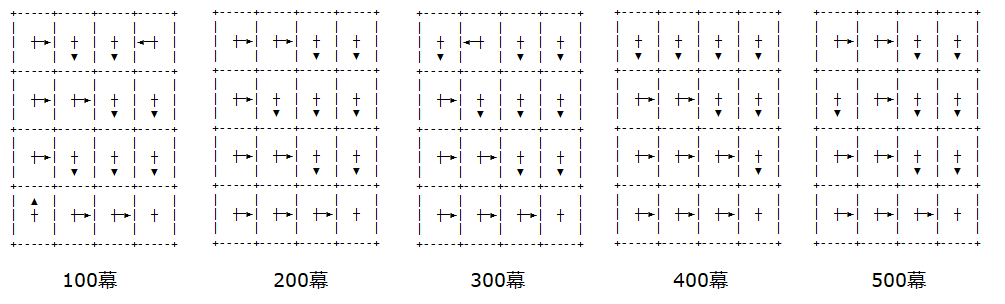
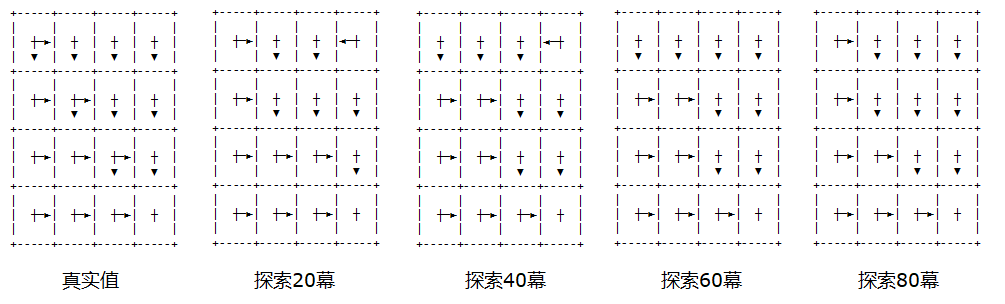
update

diff --git a/基础教程/A7-强化学习/110-二十一点问题 - 蒙特卡洛控制/src/MC_113_GridWorld_ES.py b/基础教程/A7-强化学习/110-二十一点问题 - 蒙特卡洛控制/src/MC_113_GridWorld_ES.py
@@ -17,7 +17,7 @@ Actions = [LEFT, DOWN, RIGHT, UP]
 # 初始策略
 Policy = [0.25, 0.25, 0.25, 0.25]
 # 转移概率: [SlipLeft, MoveFront, SlipRight, SlipBack]
-Transition = [0.0, 1.0, 0.0, 0.0]
+Transition = [0.1, 0.8, 0.1, 0.0]
 # 每走一步的奖励值，可以是0或者-1
 StepReward = 0
 # 特殊奖励 from s->s' then get r, 其中 s,s' 为状态序号，不是坐标位置
@@ -98,30 +98,83 @@ if __name__=="__main__":
 
     env = model.GridWorld(
         GridWidth, GridHeight, StartStates, EndStates,  # 关于状态的参数
-        Actions, Policy, Transition,                     # 关于动作的参数
+        Actions, Policy, Transition,                    # 关于动作的参数
         StepReward, SpecialReward,                      # 关于奖励的参数
         SpecialMove, Blocks)                            # 关于移动的限制
     #model.print_P(env.P_S_R)
     gamma = 0.9
-    max_iteration = 2000
-    explorations = [100,200,300,400,500]
+    max_iteration = 500
 
+    helper.print_seperator_line(helper.SeperatorLines.long, "精确解")
 
-    V,Q = algo.calculate_VQ_star(env, gamma, max_iteration)
-    print(np.round(V,1).reshape(4,4))
-    print(np.around(Q, 1))
-    drawQ.draw(Q, (4,4))
+    V_real,Q_real = algo.calculate_VQ_star(env, gamma, max_iteration)
+    helper.print_seperator_line(helper.SeperatorLines.short, "V 函数值")
+    print(np.round(V_real,1).reshape(4,4))
+    helper.print_seperator_line(helper.SeperatorLines.short, "Q 函数值")
+    print(np.around(Q_real, 1))
+    helper.print_seperator_line(helper.SeperatorLines.short, "策略")
+    drawQ.draw(Q_real, (4,4))
 
-    exit(0)
+    ####################################
 
+    helper.print_seperator_line(helper.SeperatorLines.long, "试验探索次数")
+    explorations = [20,40,60,80]
     for exploration in explorations:
+        helper.print_seperator_line(helper.SeperatorLines.middle, "探索次数="+str(exploration))
         policy = helper.create_policy(env.nS, env.nA, (0.25, 0.25, 0.25, 0.25))
-        helper.print_seperator_line(helper.SeperatorLines.long, "探索次数="+str(exploration))
         Q = MC_EveryVisit_Q_Policy_test(env, max_iteration, gamma, policy, exploration)
+        V = helper.calculat_V_from_Q(Q, policy)
+        #helper.print_seperator_line(helper.SeperatorLines.short, "V 函数")
+        #print(np.round(V,1).reshape(4,4))
+        #helper.print_seperator_line(helper.SeperatorLines.short, "Q 函数")
+        #print(np.around(Q, 1))
+        #helper.print_seperator_line(helper.SeperatorLines.short, "策略")
+        #drawQ.draw(Q, (4,4))
+        #helper.print_seperator_line(helper.SeperatorLines.short, "策略概率值")
+        #print(policy)
+
+        Qs = []
+        for i in range(10):
+            q = MC_EveryVisit_Q_Policy_test(env, max_iteration, gamma, policy, max_iteration)
+            Qs.append(q)
+        Q = np.array(Qs).mean(axis=0) 
+        V = helper.calculat_V_from_Q(Q, policy) 
+        helper.print_seperator_line(helper.SeperatorLines.short, "V 函数")
+        print(np.round(V,1).reshape(4,4))
+        helper.print_seperator_line(helper.SeperatorLines.short, "Q 函数")
+        print(np.around(Q, 1))
+        helper.print_seperator_line(helper.SeperatorLines.short, "策略")
+        drawQ.draw(Q, (4,4))
+
+        #helper.print_seperator_line(helper.SeperatorLines.short, "RMSE误差")
+        #print("状态价值函数误差=", helper.RMSE(V_real, V))
+        #print("动作价值函数误差=", helper.RMSE(Q_real, Q))
+
+    ####################################################
+    """
+    helper.print_seperator_line(helper.SeperatorLines.long, "试验采样次数与误差的关系")
+    exploration = 100
+    iterations = [200,500,1000,2000]
+    for max_iteration in iterations:
+        policy = helper.create_policy(env.nS, env.nA, (0.25, 0.25, 0.25, 0.25))
+        helper.print_seperator_line(helper.SeperatorLines.middle, "采样次数="+str(max_iteration))
+        Q = MC_EveryVisit_Q_Policy_test(env, max_iteration, gamma, policy, exploration)
+        V = helper.calculat_V_from_Q(Q, policy)
+
+        Qs = []
+        for i in range(10):
+            q = MC_EveryVisit_Q_Policy_test(env, max_iteration, gamma, policy, max_iteration)
+            Qs.append(q)
+        Q = np.array(Qs).mean(axis=0) 
         V = helper.calculat_V_from_Q(Q, policy)
         helper.print_seperator_line(helper.SeperatorLines.short, "V 函数")
         print(np.round(V,1).reshape(4,4))
         helper.print_seperator_line(helper.SeperatorLines.short, "Q 函数")
         print(np.around(Q, 1))
+        helper.print_seperator_line(helper.SeperatorLines.short, "策略")
         drawQ.draw(Q, (4,4))
-        print(policy)
+
+        helper.print_seperator_line(helper.SeperatorLines.short, "RMSE误差")
+        print("状态价值函数误差=", helper.RMSE(V_real, V))
+        print("动作价值函数误差=", helper.RMSE(Q_real, Q))
+    """

diff --git a/基础教程/A7-强化学习/110-二十一点问题 - 蒙特卡洛控制/src/common/GridWorld_Model.py b/基础教程/A7-强化学习/110-二十一点问题 - 蒙特卡洛控制/src/common/GridWorld_Model.py
@@ -104,9 +104,10 @@ class GridWorld(object):
             return transitions[0][1], transitions[0][2], transitions[0][3], transitions[0][0]
         else:
             self.p = [transitions[i][0] for i in range(num)]
-            item = np.random.choice(self.nA, p=self.p)
-            self.curr_state = item[0][1]
-            return item[1], item[2], item[3], item[0]
+            idx = np.random.choice(num, p=self.p)
+            item = transitions[idx]
+            self.curr_state = item[1]   # s
+            return item[1], item[2], item[3], item[0]   # s, r, done, p
         
 action_names = ['LEFT', 'UP', 'RIGHT', 'DOWN']
 

diff --git a/基础教程/A7-强化学习/110-二十一点问题 - 蒙特卡洛控制/src/Algorithm/Algo_OptimalValueFunction.py b/基础教程/A7-强化学习/110-二十一点问题 - 蒙特卡洛控制/src/Algorithm/Algo_OptimalValueFunction.py
@@ -7,7 +7,7 @@ def q_star(p_s_r_d, gamma, V):
     # 遍历每个转移概率,以计算 q
     for p, s_next, reward, done in p_s_r_d:
         # math: \sum_{s'} p_{ss'}^a [ r_{ss'}^a + \gamma *  v_{\pi}(s')]
-        q += p * (reward + gamma * V[s_next] * (1-done))
+        q += p * (reward + gamma * V[s_next])
     return q
 
 # 式 (9.6.3) 计算 v*

diff --git a/基础教程/A7-强化学习/110-二十一点问题 - 蒙特卡洛控制/3-贪心法与探索性出发.md b/基础教程/A7-强化学习/110-二十一点问题 - 蒙特卡洛控制/3-贪心法与探索性出发.md
@@ -213,43 +213,6 @@ def MC_EveryVisit_Q_Policy_test(env, episodes, gamma, policy, exploration):
 首先我们尝试 exploration = [10, 50]，即每个动作的最小访问次数为 10 次和 50 次时，都会造成分幕采样时的死循环，所以最终令 exploration = 100，可以避免这个问题。如果设置成 200 甚至 500，效果更佳，要针对具体情况来分析。
 
 
-下面是 max_iteration = 2000，exploration = 100 时的结果：
-
-```
------ V 函数 -----
-[[-6.6 -3.3 -2.8 -4.6]
- [-5.9 -1.2 -0.  -2.5]
- [-2.5 -1.5  0.6  1. ]
- [-5.  -0.   1.   0. ]]
-```
-Q 函数和最大值方向：
-
-```
------ Q 函数 -----
-[[-19.7 -20.2  -6.6 -21.1]      +-----+-----+-----+-----+
- [-18.   -3.3 -13.3 -15.1]      |     |     |     |     |
- [-12.3  -2.8 -10.8 -12.5]      |  ┼─►|  ┼  |  ┼  |◄─┼  |
- [ -4.6 -13.7 -16.2 -15.5]      |     |  ▼  |  ▼  |     |
- [-18.6 -15.7  -5.9 -17.5]      +-----+-----+-----+-----+
- [-12.9 -11.7  -1.2 -14.6]      |     |     |     |     |
- [-11.3  -0.  -11.  -14.4]      |  ┼─►|  ┼─►|  ┼  |  ┼  |
- [ -9.7  -2.5 -11.6 -12. ]      |     |     |  ▼  |  ▼  |
- [-13.2 -15.8  -2.5 -15.9]      +-----+-----+-----+-----+
- [-15.1  -1.5  -9.7 -11.9]      |     |     |     |     |
- [ -9.2   0.6  -4.9  -7.8]      |  ┼─►|  ┼  |  ┼  |  ┼  |
- [ -6.2   1.   -4.2  -6. ]      |     |  ▼  |  ▼  |  ▼  |
- [-13.7 -15.7 -13.8  -5. ]      +-----+-----+-----+-----+
- [-11.1 -10.9  -0.  -12.7]      |  ▲  |     |     |     |
- [ -3.9  -2.9   1.   -5. ]      |  ┼  |  ┼─►|  ┼─►|  ┼  |
- [  0.    0.    0.    0. ]]     +-----+-----+-----+-----+
-```
-策略：
-```
-[[0.   0.   1.   0.  ]  [0.   1.   0.   0.  ]   [0.   1.   0.   0.  ]   [1.   0.   0.   0.  ]
- [0.   0.   1.   0.  ]  [0.   0.   1.   0.  ]   [0.   1.   0.   0.  ]   [0.   1.   0.   0.  ]
- [0.   0.   1.   0.  ]  [0.   1.   0.   0.  ]   [0.   1.   0.   0.  ]   [0.   1.   0.   0.  ]
- [0.   0.   0.   1.  ]  [0.   0.   1.   0.  ]   [0.   0.   1.   0.  ]   [0.25 0.25 0.25 0.25]]
- ```
 
 策略中箭头的指向与 Q 函数结果中右侧的字符表格一致，它不是最优策略，但是已经是可以到达终点的策略了，虽然在 $s_3,s_{12}$ 处还有问题。增加 max_iteration 的次数，并不会改善上面的问题，因为使用的是贪心策略，一旦定型，很难更改。此时需要增加 exploration 的数值，才能得到更好的策略。
 
@@ -261,8 +224,9 @@ Q 函数和最大值方向：
 图 11.3.2
 </center>
 
-- 探索 100 幕，$s_3,s_{12}$ 有问题；
-- 探索 200 幕，情况还算不错，只是在 $s_1$ 处向下更为合理；
-- 探索 300 幕，$s_1$ 出现了问题；
-- 探索 400 幕，情况很不错；
-- 探索 500 幕，情况还算不错，只是在 $s_1$ 处向下更为合理，在 $s_4$ 处向右更为合理。
+- 真实值，在对角线上是可以向下和向右两个方向移动，在对角线右上方都是向下移动，在对角线左下方都是向右移动；
+- 探索 20 幕，$s_3$ 有问题；
+- 探索 40 幕，$s_3$ 有问题；
+- 探索 60 幕，没有问题；
+- 探索 80 幕，没有问题。由于是蒙特卡洛方法，所以不能要求非常精确地在对角线上是两个方向，只要看对角线上方和下方的箭头方向正确即可。
+

diff --git a/基础教程/A7-强化学习/100-冰面行走问题 - 蒙特卡洛预测/4-策略评估 V - 每次访问法.md b/基础教程/A7-强化学习/100-冰面行走问题 - 蒙特卡洛预测/4-策略评估 V - 每次访问法.md
@@ -197,8 +197,9 @@ if __name__=="__main__":
 
 假设有一个均值为 3.1 的不知名分布，我们从中采样四次，得到序列 $x=[1,2,4,5]$，则：
 
+- 均值为：$\mu=(1+2+4+5)/4=3$
 - 方差为：$var(x)=[(1-3)^2+(2-3)^2+(4-3)^2+(5-3)^2]/4=2.5$
-- 偏差为：$bias(x)=\sqrt{[(1+2+4+5)/4-3.1]^2}=0.1$
+- 偏差为：$bias(x)=\sqrt{(3-3.1)^2}=0.1$
 
 方差很大，偏差很小。
 
